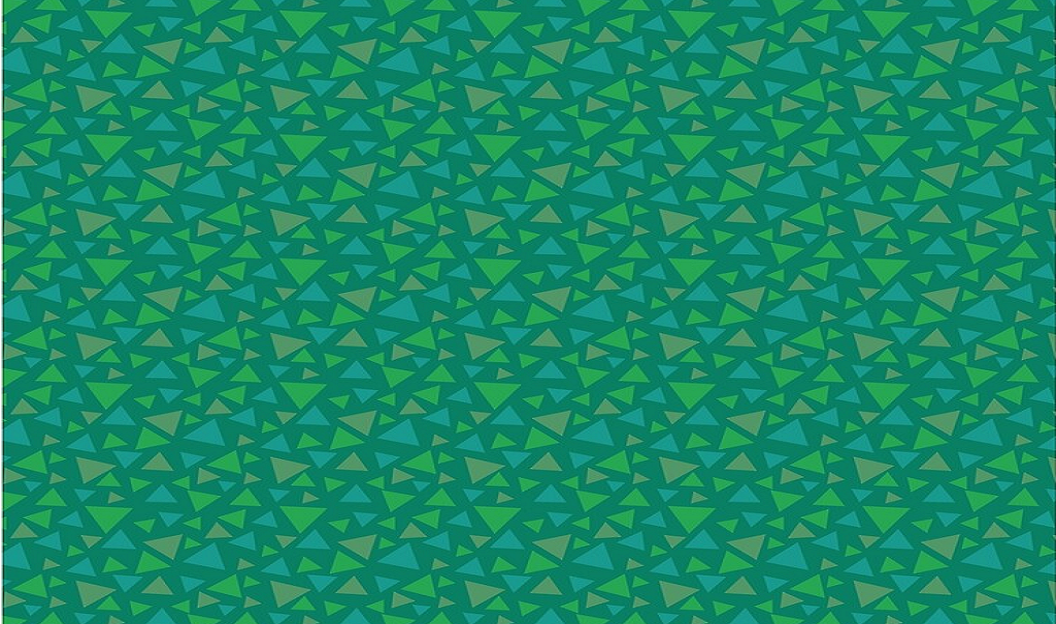
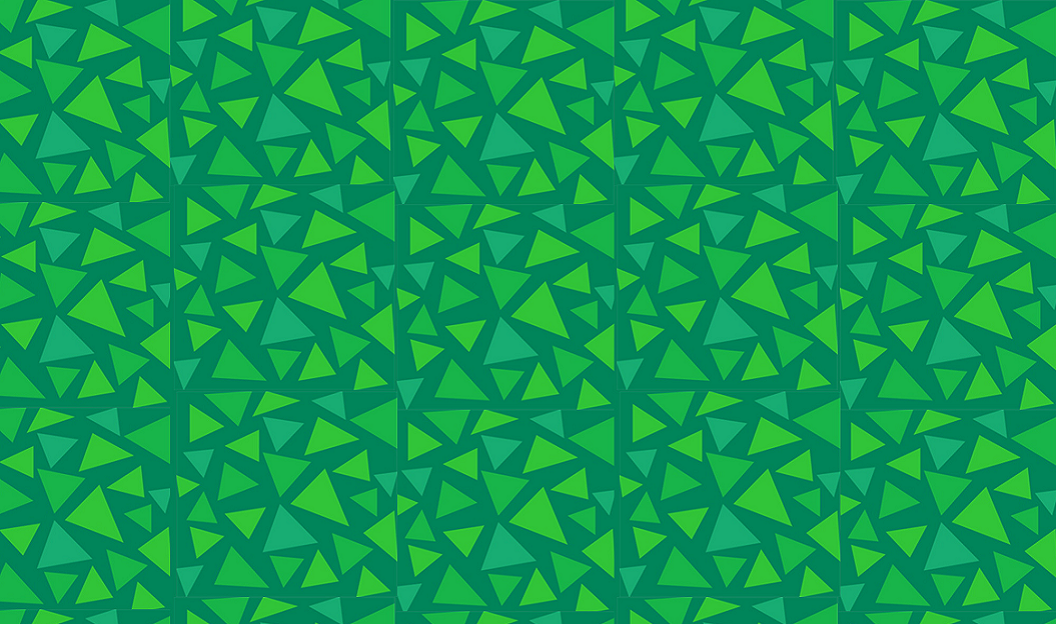
new images

diff --git a/AnimalCrossing.py b/AnimalCrossing.py
@@ -47,12 +47,10 @@ class Player(pygame.sprite.Sprite): # player that can be moved by keys
         screen_there_x = False
         screen_there_y = False
         for wall in self.game.walls:
-            for n in (0, GRIDWIDTH, 1):
-                if GRIDWIDTH + n == self.x + dx:
-                    screen_there_x = True
-            for n in (0, GRIDHEIGHT, 1):
-                if GRIDHEIGHT + n == self.y + dy:
-                    screen_there_y = True
+            if GRIDWIDTH + 1 == self.x + dx:
+                 screen_there_x = True
+            if GRIDHEIGHT + 1 == self.y + dy:
+                 screen_there_y = True
             while screen_there_x and screen_there_y == True:
                 return True
         return False
@@ -78,9 +76,10 @@ class Player(pygame.sprite.Sprite): # player that can be moved by keys
         self.rect.x = self.x * TILESIZE
         self.rect.y = self.y * TILESIZE
 
-class House(pygame.sprite.Sprite): 
+# seperate classes for town hall and houses/trees bc town hall is 2x3 squares and trees/houses are 2x2 squares
+class Hall(pygame.sprite.Sprite): 
     def __init__(self, game, x, y):
-        """makes the house that shows up on the screen"""
+        """makes the town hall that shows up on the screen"""
         self.groups = game.all_sprites, game.walls
         pygame.sprite.Sprite.__init__(self, self.groups)
         self.game = game
@@ -90,6 +89,20 @@ class House(pygame.sprite.Sprite):
         self.y = y
         self.rect.x = x * TILESIZE
         self.rect.y = y * TILESIZE
+
+class Tree1(pygame.sprite.Sprite):
+    def __init__(self, game, x, y):
+        """makes tree"""
+        self.groups = game.all_sprites, game.walls
+        pygame.sprite.Sprite.__init__(self, self.groups)
+        self.game = game
+        self.image = pygame.image.load("src/img/tree1.png")
+        self.rect = self.image.get_rect()
+        self.x = x
+        self.y = y
+        self.rect.x = x * TILESIZE
+        self.rect.y = y * TILESIZE
+
 
 class Game:
     """Game class"""
@@ -111,8 +124,18 @@ class Game:
         self.all_sprites = pygame.sprite.Group()
         self.walls = pygame.sprite.Group()
         self.player = Player(self, 10, 10)
+
+        #town hall position
+        Hall_position_x = 5
+        Hall_position_y = 3
         for x in range(10, 20):
-            House(self, 5, 3)
+            Hall(self, Hall_position_x, Hall_position_y)
+
+        #tree 1 position
+        tree1_x = 8
+        tree1_y = 7
+        for x in range(10,20):
+            Tree1(self, tree1_x, tree1_y)
 
     def run(self):
         """game loop"""
@@ -141,12 +164,17 @@ class Game:
 
     def draw(self):
         """draw everything on the screen"""
-        # draw the grid
+        # draw the grid 
         self.draw_grid()
+
         # draw the background grass
-        self.screenimage = pygame.image.load("src/img/grass.png")
+        self.screenimage = pygame.image.load("src/img/grass2.png")
         self.rect = self.screenimage.get_rect()
         screen.blit(self.screenimage, self.rect)
+
+        # #draw the grid
+        # self.draw_grid()
+
         # draw sprites
         self.all_sprites.draw(self.screen)
         pygame.display.flip()
